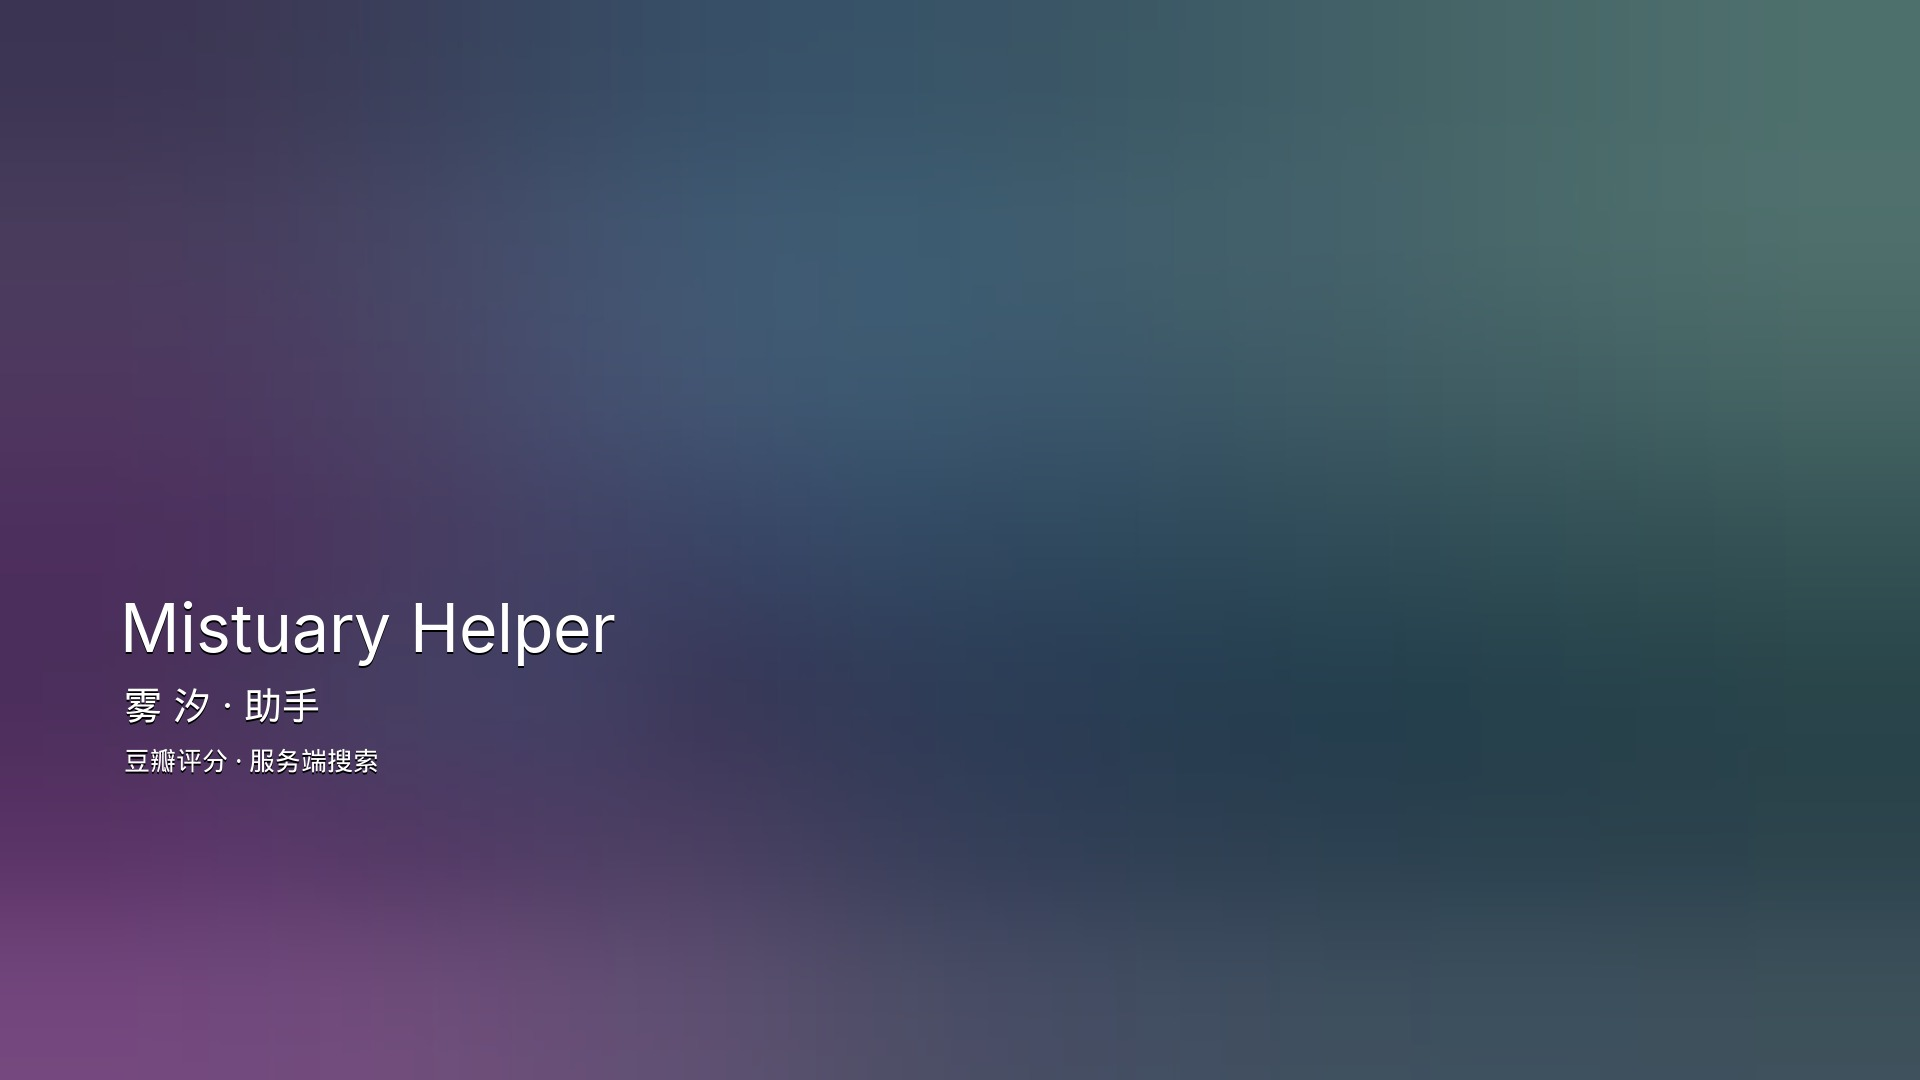
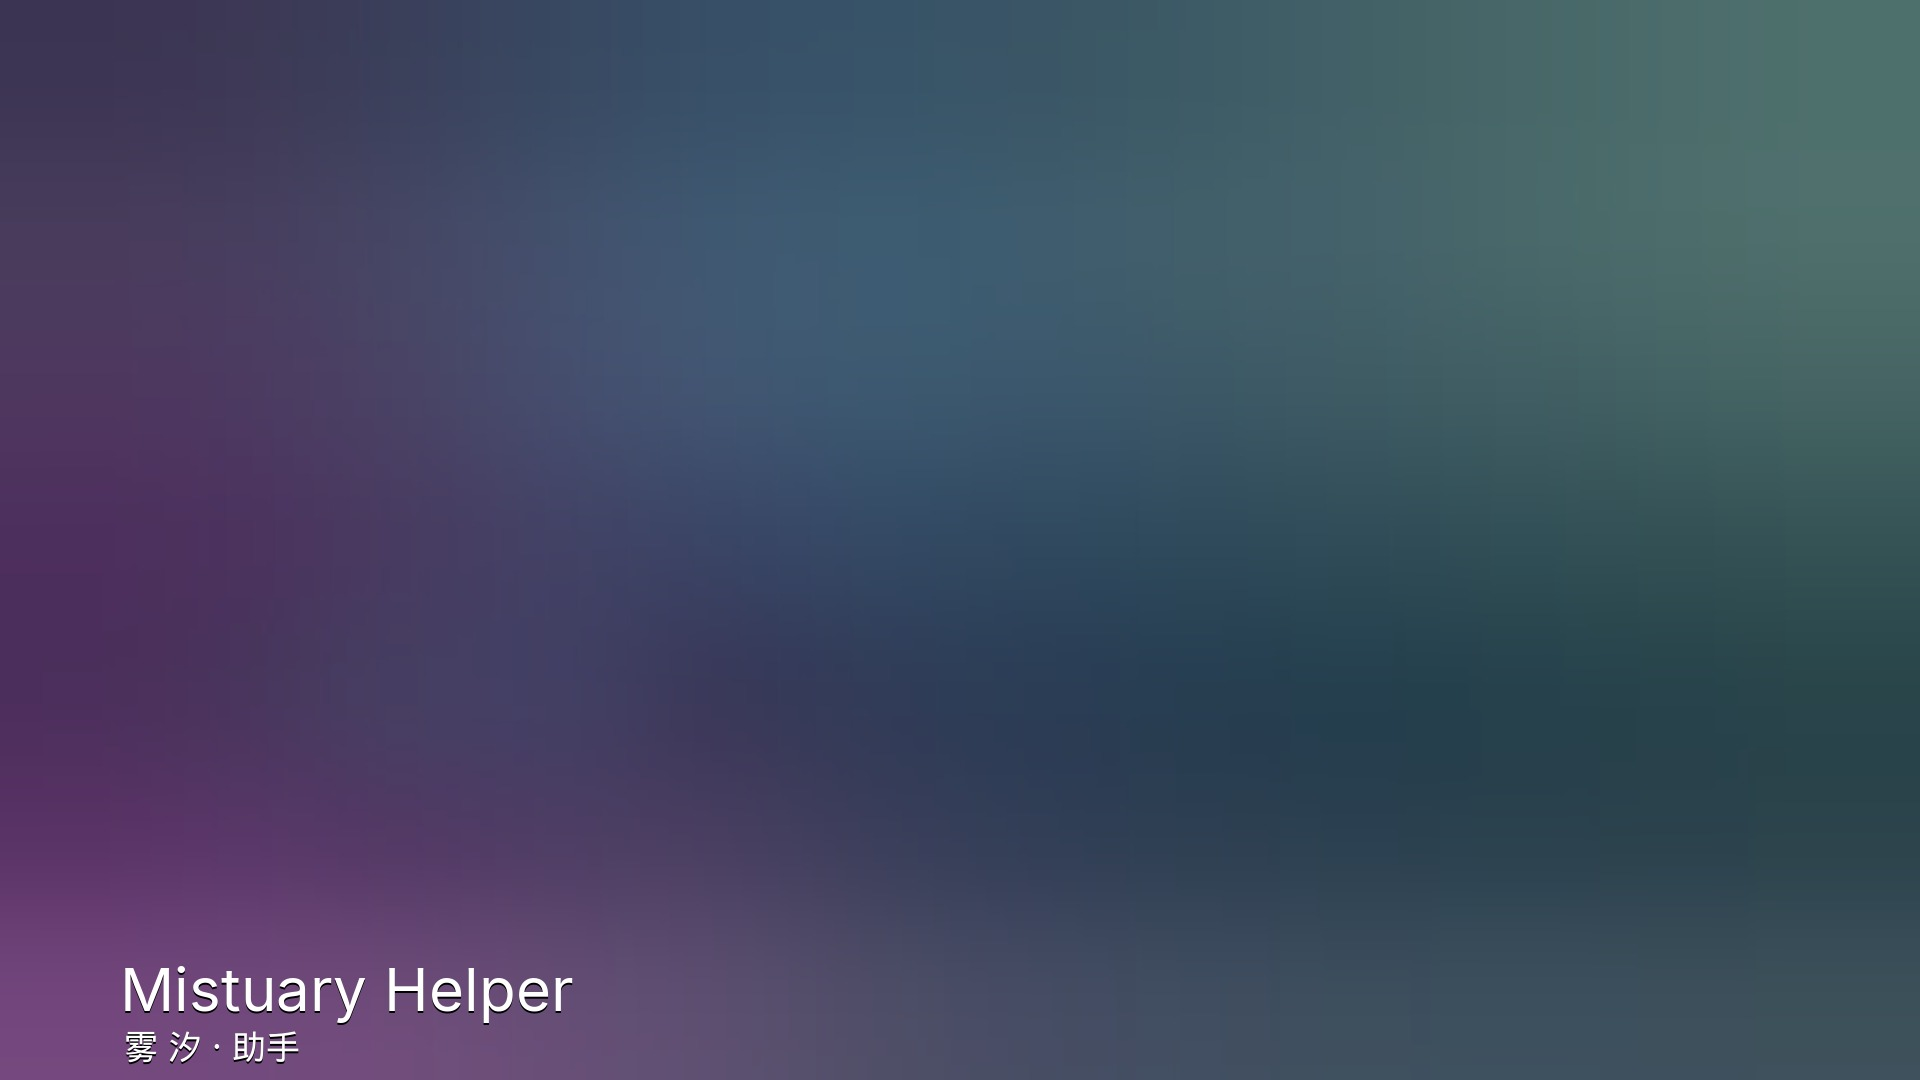
fix(assets): fanart 文字移到插件信息面板之外，去掉豆瓣那行
插件信息弹窗的面板占 240..1680 × 140..940，烧在面板范围内的字会透过
71% 不透明的面板，和弹窗正文、按钮叠在一起（Mistuary Helper 的 fanart
是标题卡，白字特别明显）。

- 标题 66→60px，移到 (120, 952)；副标题 38→34px，移到 (124, 1026)
- 删掉「豆瓣评分 · 服务端搜索」那行
- 文字整体落在面板下沿之外，重开弹窗不再和正文重叠

Changed region(s): [[0.0625, 0.8861, 0.3125, 1.0], [0.0625, 0.55, 0.3125, 0.6111], [0.0625, 0.6417, 0.2188, 0.7333]]

diff --git a/tools/gen_assets.py b/tools/gen_assets.py
@@ -85,14 +85,14 @@ def build_fanart(base_path: str, font_path: str) -> Image.Image:
     canvas = gradient_from(base_path, (FANART_W, FANART_H)).convert("RGBA")
     draw = ImageDraw.Draw(canvas)
 
-    title_font = ImageFont.truetype(font_path, 66)
-    sub_font = ImageFont.truetype(font_path, 38)
-    note_font = ImageFont.truetype(font_path, 26)
+    title_font = ImageFont.truetype(font_path, 60)
+    sub_font = ImageFont.truetype(font_path, 34)
 
+    # 文字压在面板下沿（940）之外。插件信息弹窗的面板占 240..1680 × 140..940，
+    # 烧在面板范围内的字会透过半透明面板，和弹窗正文叠在一起（2026-11-05）。
     left = 120
-    draw_text(draw, (left, 588), "Mistuary Helper", title_font, (255, 255, 255, 255))
-    draw_text(draw, (left + 4, 682), "雾 汐 · 助手", sub_font, (255, 255, 255, 220))
-    draw_text(draw, (left + 4, 744), "豆瓣评分 · 服务端搜索", note_font, (255, 255, 255, 150))
+    draw_text(draw, (left, 952), "Mistuary Helper", title_font, (255, 255, 255, 255))
+    draw_text(draw, (left + 4, 1026), "雾 汐 · 助手", sub_font, (255, 255, 255, 215))
     return canvas
 
 
